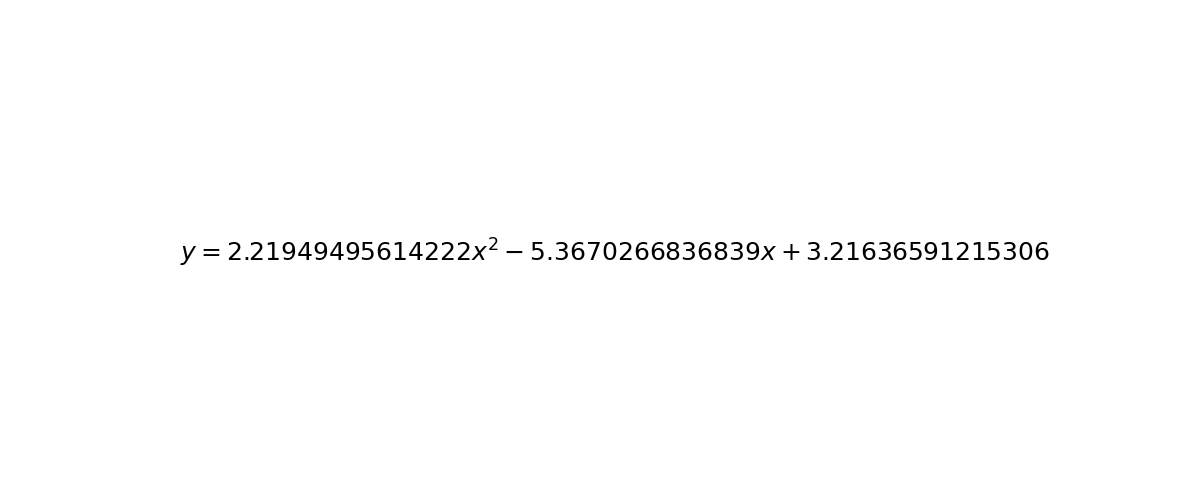
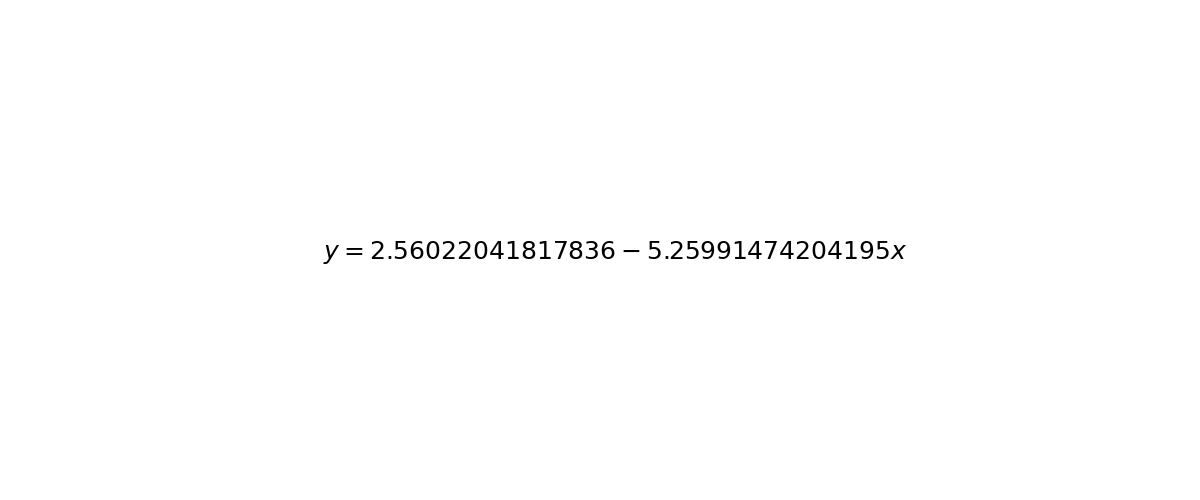
First Commit

Changed region(s): [[0.1542, 0.48, 0.8942, 0.54]]

diff --git a/SymbolicRegressor.py b/SymbolicRegressor.py
@@ -25,7 +25,7 @@ if not os.path.exists(temp_directory):
 ########################################################################################################################
 # Load the dataset - Input Values
 ########################################################################################################################
-data = pd.read_excel("datasets/quadratic.xlsx")
+data = pd.read_excel("datasets/linear.xlsx")
 
 ########################################################################################################################
 # Cleaning column names
@@ -58,7 +58,7 @@ model = PySRRegressor(
         "stop_if(loss, complexity) = loss < 1e-2 && complexity < 10"
         # Stop early if we find a good and simple equation
     ),
-    elementwise_loss="myloss(x, y) = sum(abs.(x .- y) ./ abs.(x)) ",  # MAPE
+    elementwise_loss="myloss(x, y) = sum(abs.(x .- y) ./ abs.(x)) ",  # MAPE - Mean Absolute Percentage Error
 
     temp_equation_file=True,
     tempdir=temp_directory,

diff --git a/surrogate_model/equation.py b/surrogate_model/equation.py
@@ -2,7 +2,7 @@ import sympy as sp
 import math
 
 def calculate_y(x):
-    y = 2.21949495614222*x**2 - 5.3670266836839*x + 3.21636591215306
+    y = 2.56022041817836 - 5.25991474204195*x
     return float(y)
 
 if __name__ == "__main__":
